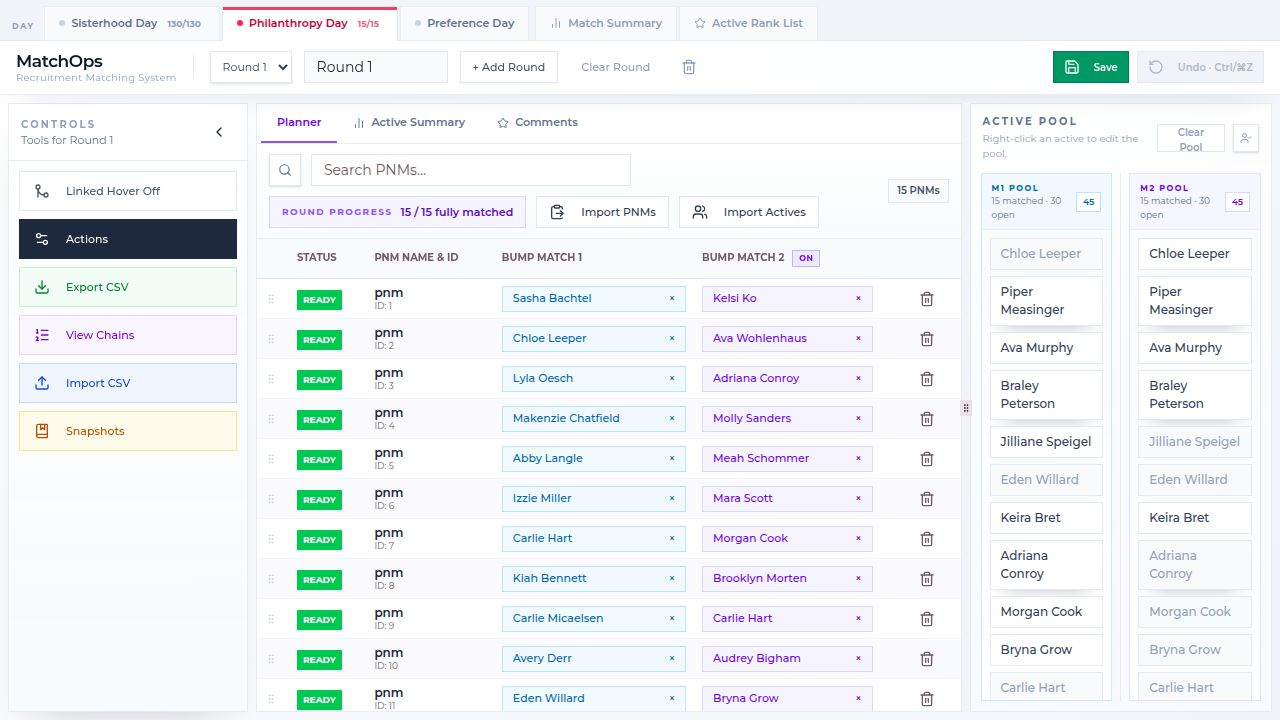
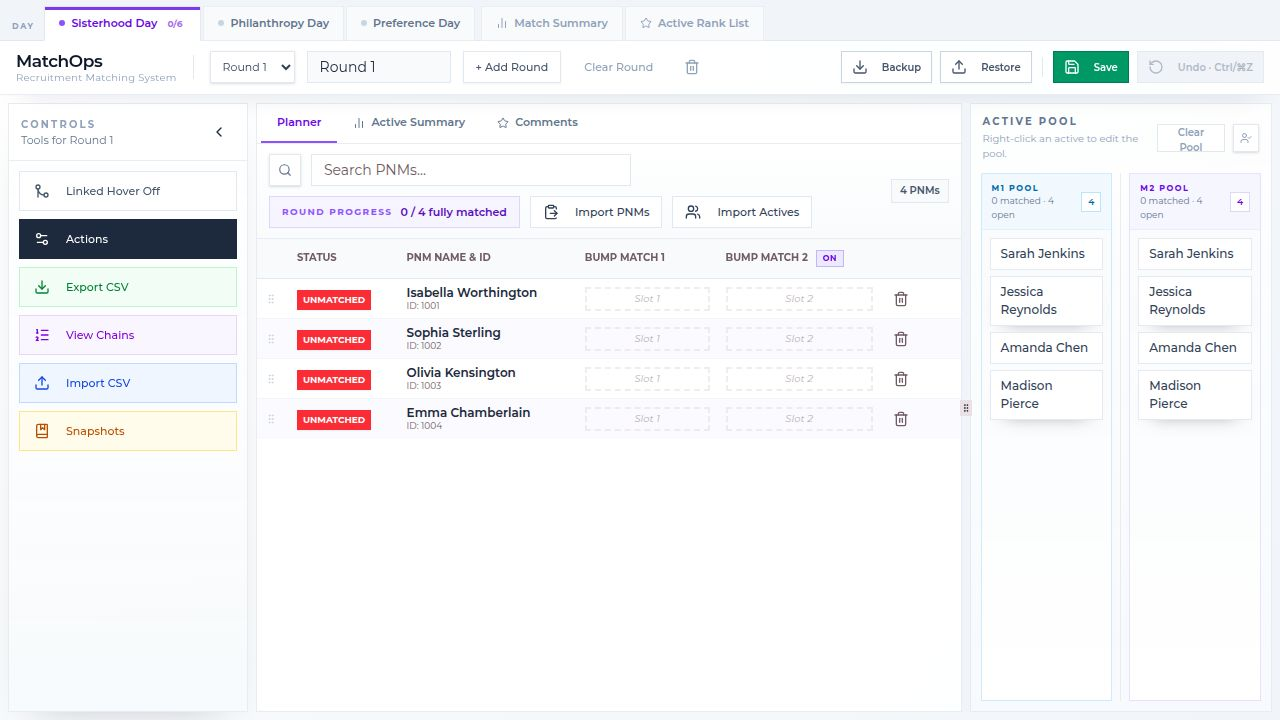
Add master export and import functionality for session data
Implement a master export feature to create a multi-sheet Excel file containing all session data, including rounds, PNMs, actives, and reviews. Add a master import function to restore the session state from an exported Excel file, enabling seamless continuation of work.

Replit-Commit-Author: Agent
Replit-Commit-Session-Id: 38a8cf79-ac95-47f4-b238-5ee4f7307693
Replit-Commit-Checkpoint-Type: full_checkpoint
Replit-Commit-Event-Id: 96508306-a24f-4466-860d-9b8fb9563b43
Replit-Commit-Screenshot-Url: https://storage.googleapis.com/screenshot-production-us-central1/461f320f-3784-4a51-a7ee-7f857bf5cde1/38a8cf79-ac95-47f4-b238-5ee4f7307693/YADJCgc
Replit-Helium-Checkpoint-Created: true

diff --git a/client/src/pages/dashboard.tsx b/client/src/pages/dashboard.tsx
@@ -1978,6 +1978,122 @@ export default function Dashboard() {
     e.target.value = "";
   };
 
+  // ── Master Export (multi-sheet Excel) ─────────────────────────────────────
+  const handleMasterExport = () => {
+    try {
+      const wb = XLSX.utils.book_new();
+
+      // One sheet per day
+      for (const day of days) {
+        const rows: (string | number)[][] = [];
+        for (const round of day.rounds) {
+          rows.push([round.name]);
+          rows.push(["ID#", "PNM Name", "M1 Match", "M2 Match", "Bump Chain"]);
+          const analysis = buildChainAnalysis(round.pnms);
+          for (const pnm of round.pnms) {
+            const m1Name = pnm.matchedWith ? (activeNameById.get(pnm.matchedWith) ?? pnm.matchedWith) : "";
+            const m2Name = pnm.secondMatch ? (activeNameById.get(pnm.secondMatch) ?? pnm.secondMatch) : "";
+            const chain = pnm.matchedWith ? analysis.activeToChain.get(pnm.matchedWith) : undefined;
+            rows.push([pnm.idNumber, pnm.name, m1Name, m2Name, chain ? chain.display : ""]);
+          }
+          rows.push([]);
+        }
+        if (rows.length > 0) {
+          const ws = XLSX.utils.aoa_to_sheet(rows);
+          XLSX.utils.book_append_sheet(wb, ws, day.name.slice(0, 31));
+        }
+      }
+
+      // Actives sheet
+      const activesWs = XLSX.utils.aoa_to_sheet([
+        ["Name"],
+        ...actives.map(a => [a.name]),
+      ]);
+      XLSX.utils.book_append_sheet(wb, activesWs, "Actives");
+
+      // Reviews sheet
+      const reviewsWs = XLSX.utils.aoa_to_sheet([
+        ["PNM Name", "Active Name", "Stars (1-5)", "Notes"],
+        ...reviews.map(r => [r.pnmName, r.activeName, r.stars, r.note]),
+      ]);
+      XLSX.utils.book_append_sheet(wb, reviewsWs, "Reviews");
+
+      // Hidden state sheet for re-import
+      const statePayload = {
+        days: days.map(d => ({
+          id: d.id, name: d.name,
+          rounds: d.rounds.map((r, i) => ({
+            id: r.id, name: r.name, sortOrder: r.sortOrder ?? i,
+            pnms: r.pnms.map(p => ({
+              id: p.id, name: p.name, idNumber: p.idNumber,
+              matchedWith: p.matchedWith ?? null,
+              secondMatch: p.secondMatch ?? null,
+            })),
+          })),
+        })),
+        actives: actives.map(a => ({ id: a.id, name: a.name })),
+        activeDayId, activeRoundId, chainLengthLimit, commentActiveOverrides,
+        reviews: reviews.map(r => ({ ...r })),
+      };
+      const stateWs = XLSX.utils.aoa_to_sheet([
+        ["MatchOps Session Data — do not edit this sheet"],
+        [JSON.stringify(statePayload)],
+      ]);
+      XLSX.utils.book_append_sheet(wb, stateWs, "_MATCHOPS_STATE_");
+
+      const date = new Date().toISOString().slice(0, 10);
+      XLSX.writeFile(wb, `matchops-session-${date}.xlsx`);
+      toast.success("Session exported — open in Excel to view all days");
+    } catch (err) {
+      toast.error("Export failed: " + (err instanceof Error ? err.message : String(err)));
+    }
+  };
+
+  const masterImportFileRef = useRef<HTMLInputElement>(null);
+
+  const handleMasterImport = async (e: React.ChangeEvent<HTMLInputElement>) => {
+    const file = e.target.files?.[0];
+    if (!file) return;
+    e.target.value = "";
+    try {
+      const arrayBuffer = await file.arrayBuffer();
+      const wb = XLSX.read(arrayBuffer, { type: "array" });
+      const stateSheet = wb.Sheets["_MATCHOPS_STATE_"];
+      if (!stateSheet) {
+        toast.error("Not a MatchOps session file — missing state sheet.");
+        return;
+      }
+      const rows = XLSX.utils.sheet_to_json<string[]>(stateSheet, { header: 1 });
+      const jsonStr = (rows[1] as any)?.[0] as string | undefined;
+      if (!jsonStr) {
+        toast.error("Could not read session data from this file.");
+        return;
+      }
+      const payload = JSON.parse(jsonStr);
+      await idbSaveState({
+        days: payload.days,
+        actives: payload.actives,
+        activeDayId: payload.activeDayId,
+        activeRoundId: payload.activeRoundId,
+        chainLengthLimit: payload.chainLengthLimit,
+        commentActiveOverrides: payload.commentActiveOverrides ?? {},
+      });
+      if (Array.isArray(payload.reviews)) {
+        for (const r of payload.reviews) {
+          await idbUpsertReview({
+            id: r.id, pnmId: r.pnmId, activeId: r.activeId,
+            activeName: r.activeName, pnmName: r.pnmName,
+            stars: r.stars, note: r.note,
+          });
+        }
+      }
+      toast.success("Session imported — reloading…");
+      setTimeout(() => window.location.reload(), 800);
+    } catch (err) {
+      toast.error("Import failed: " + (err instanceof Error ? err.message : String(err)));
+    }
+  };
+
   const activeSummary = useMemo(() => {
     const conversations: Record<string, { pnmName: string; roundName: string }[]> = {};
     actives.forEach(a => { conversations[a.id] = []; });
@@ -2279,8 +2395,19 @@ export default function Dashboard() {
 
                   <Button variant="outline" size="sm" className={`h-10 text-[11px] rounded-none w-full bg-green-50/95 hover:bg-green-100 border-green-200 text-green-700 shadow-[0_12px_24px_-22px_rgba(34,197,94,0.35)] ${isToolsMenuOpen ? 'justify-start px-3.5' : 'justify-center px-0'}`} onClick={exportToCSV} data-testid="button-export-csv">
                     <Download className={`w-3 h-3 ${isToolsMenuOpen ? 'mr-2' : ''}`} />
-                    {isToolsMenuOpen ? 'Export CSV' : null}
+                    {isToolsMenuOpen ? 'Export Round CSV' : null}
                   </Button>
+
+                  <Button variant="outline" size="sm" className={`h-10 text-[11px] rounded-none w-full bg-sky-50/95 hover:bg-sky-100 border-sky-300 text-sky-700 font-semibold shadow-[0_12px_24px_-22px_rgba(14,165,233,0.35)] ${isToolsMenuOpen ? 'justify-start px-3.5' : 'justify-center px-0'}`} onClick={handleMasterExport} data-testid="button-master-export">
+                    <Download className={`w-3 h-3 ${isToolsMenuOpen ? 'mr-2' : ''}`} />
+                    {isToolsMenuOpen ? 'Export All Days (.xlsx)' : null}
+                  </Button>
+
+                  <Button variant="outline" size="sm" className={`h-10 text-[11px] rounded-none w-full bg-amber-50/95 hover:bg-amber-100 border-amber-300 text-amber-700 font-semibold shadow-[0_12px_24px_-22px_rgba(245,158,11,0.35)] ${isToolsMenuOpen ? 'justify-start px-3.5' : 'justify-center px-0'}`} onClick={() => masterImportFileRef.current?.click()} data-testid="button-master-import">
+                    <Upload className={`w-3 h-3 ${isToolsMenuOpen ? 'mr-2' : ''}`} />
+                    {isToolsMenuOpen ? 'Import Session (.xlsx)' : null}
+                  </Button>
+                  <input ref={masterImportFileRef} type="file" accept=".xlsx,.xls" className="hidden" onChange={handleMasterImport} data-testid="input-master-import-file" />
 
                   <Dialog open={isBumpChainsOpen} onOpenChange={setIsBumpChainsOpen}>
                     <DialogTrigger asChild>
